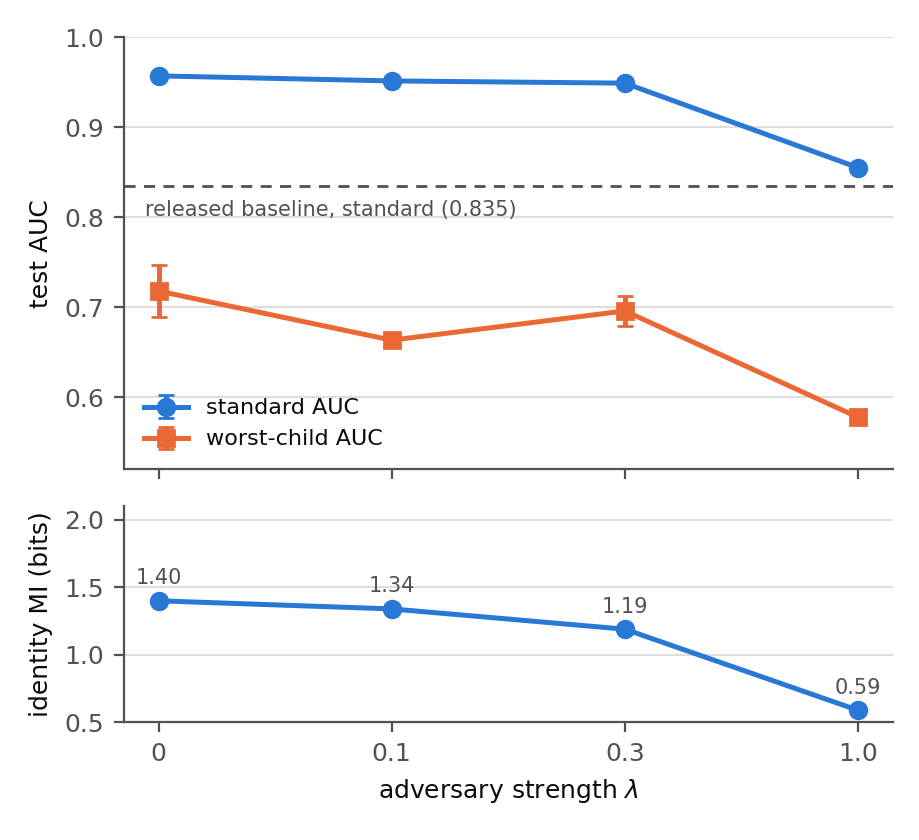
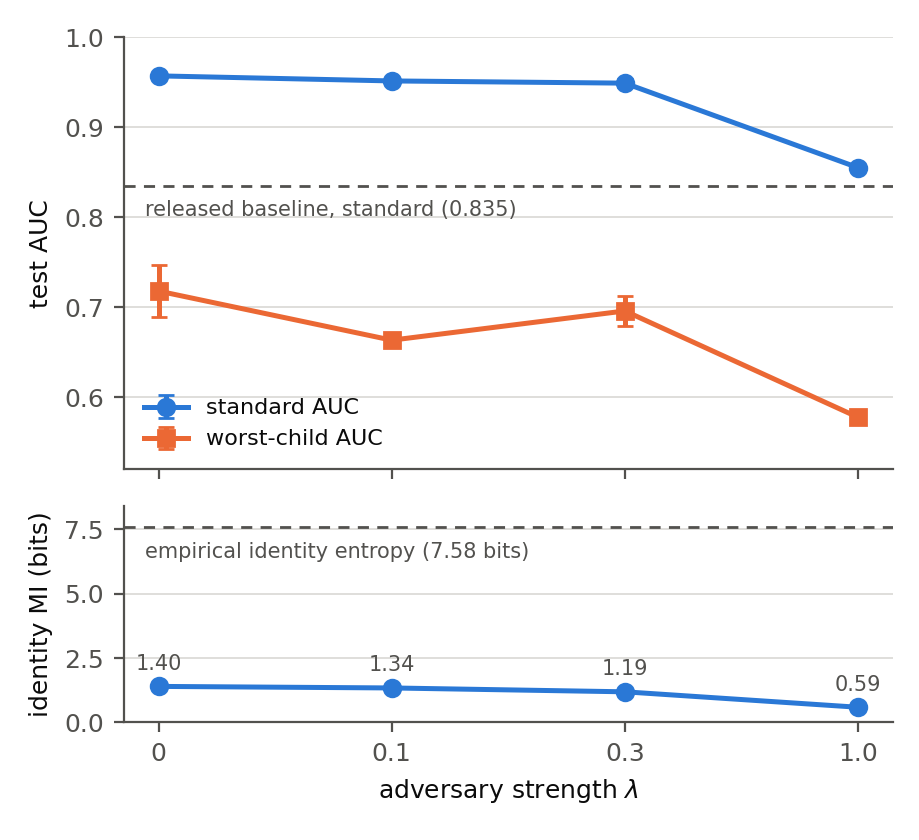
Rename QC protocol in generated tables, flip delta sign, add MI ceiling line
Review-driven presentation changes only: column headers say QC AUC,
delta is standard minus QC so larger means more reliance, the ablation
family row is labeled both (v2), and the tradeoff figure marks the
7.58-bit empirical identity entropy. All numeric values unchanged.

Changed region(s): [[0.0609, 0.619, 0.975, 0.8667], [0.0914, 0.8357, 0.1219, 0.8667]]

diff --git a/results/make_paper_tables.py b/results/make_paper_tables.py
@@ -69,7 +69,7 @@ qlr_scores = clf.predict_proba(scaler.transform(X))[:, 1]
 
 lines = [
     r"\begin{tabular}{lrccc}", r"\toprule",
-    r"model & params & standard AUC & hard-negative AUC & $\Delta$ \\",
+    r"model & params & standard AUC & QC AUC & $\Delta$ \\",
     r"\midrule",
 ]
 for name, path, params in MODELS:
@@ -81,12 +81,12 @@ for name, path, params in MODELS:
             hns.append(res["hard_negative"]["auc"])
         lines.append(f"{name} & {params} & {f(np.mean(sts))} $\\pm$ {f(np.std(sts))} & "
                      f"{f(np.mean(hns))} $\\pm$ {f(np.std(hns))} & "
-                     f"{f(np.mean(hns) - np.mean(sts))} \\\\")
+                     f"{f(np.mean(sts) - np.mean(hns))} \\\\")
         continue
     s = qlr_scores if path is None else scores_of(path)[1]
     res = evaluate(s, rows)
     st, hn = res["standard"]["auc"], res["hard_negative"]["auc"]
-    lines.append(f"{name} & {params} & {f(st)} & {f(hn)} & {f(hn - st)} \\\\")
+    lines.append(f"{name} & {params} & {f(st)} & {f(hn)} & {f(st - hn)} \\\\")
 lines += [r"\bottomrule", r"\end{tabular}"]
 open(f"{OUT}/table_main.tex", "w").write("\n".join(lines) + "\n")
 
@@ -99,7 +99,7 @@ ABL = [
     ("both (v2)", "results/segment_scores/stage1_detector_v2_test_scores.csv"),
 ]
 lines = [r"\begin{tabular}{lcc}", r"\toprule",
-         r"variant & standard AUC & hard-negative AUC \\", r"\midrule"]
+         r"variant & standard AUC & QC AUC \\", r"\midrule"]
 for name, path in ABL:
     res = evaluate(scores_of(path)[1], rows)
     lines.append(f"{name} & {f(res['standard']['auc'])} & {f(res['hard_negative']['auc'])} \\\\")
@@ -111,7 +111,7 @@ for p in ["results/segment_scores/stage1_detector_v2_test_scores.csv",
     v2_st.append(res["standard"]["auc"])
     v2_hn.append(res["hard_negative"]["auc"])
 lines.append(r"\midrule")
-lines.append(f"both, 3 seeds & {f(np.mean(v2_st))} $\\pm$ {f(np.std(v2_st))} "
+lines.append(f"both (v2), 3 seeds & {f(np.mean(v2_st))} $\\pm$ {f(np.std(v2_st))} "
              f"& {f(np.mean(v2_hn))} $\\pm$ {f(np.std(v2_hn))} \\\\")
 lines += [r"\bottomrule", r"\end{tabular}"]
 open(f"{OUT}/table_ablation.tex", "w").write("\n".join(lines) + "\n")
@@ -197,7 +197,7 @@ BREADTH = [
     ("CompactCTRGCN (ours)", "353K", "remedies", "results/segment_scores/stage2_sapl_lam0_seed0_test_scores.csv"),
 ]
 lines = [r"\begin{tabular}{llcccc}", r"\toprule",
-         r"architecture & params & arm & standard AUC & hard-negative AUC & $\Delta$ \\",
+         r"architecture & params & arm & standard AUC & QC AUC & $\Delta$ \\",
          r"\midrule"]
 prev = None
 for arch, par, arm, path in BREADTH:
@@ -208,7 +208,7 @@ for arch, par, arm, path in BREADTH:
     st, hn = res["standard"]["auc"], res["hard_negative"]["auc"]
     name = arch if arm == "base" else ""
     p = par if arm == "base" else ""
-    lines.append(f"{name} & {p} & {arm} & {f(st)} & {f(hn)} & {f(hn-st)} \\\\")
+    lines.append(f"{name} & {p} & {arm} & {f(st)} & {f(hn)} & {f(st-hn)} \\\\")
 lines += [r"\bottomrule", r"\end{tabular}"]
 open(f"{OUT}/table_breadth.tex", "w").write("\n".join(lines) + "\n")
 print("wrote table_breadth.tex")

diff --git a/results/tables/table_breadth.tex b/results/tables/table_breadth.tex
@@ -1,14 +1,14 @@
 \begin{tabular}{llcccc}
 \toprule
-architecture & params & arm & standard AUC & hard-negative AUC & $\Delta$ \\
+architecture & params & arm & standard AUC & QC AUC & $\Delta$ \\
 \midrule
-ST-GCN & 3.1M & base & 0.837 & 0.765 & -0.072 \\
- &  & remedies & 0.903 & 0.876 & -0.028 \\
+ST-GCN & 3.1M & base & 0.837 & 0.765 & 0.072 \\
+ &  & remedies & 0.903 & 0.876 & 0.028 \\
 \midrule
-AGCN & 3.4M & base & 0.754 & 0.601 & -0.153 \\
- &  & remedies & 0.790 & 0.687 & -0.103 \\
+AGCN & 3.4M & base & 0.754 & 0.601 & 0.153 \\
+ &  & remedies & 0.790 & 0.687 & 0.103 \\
 \midrule
-CompactCTRGCN (ours) & 353K & base & 0.865 & 0.792 & -0.073 \\
- &  & remedies & 0.958 & 0.946 & -0.012 \\
+CompactCTRGCN (ours) & 353K & base & 0.865 & 0.792 & 0.073 \\
+ &  & remedies & 0.958 & 0.946 & 0.012 \\
 \bottomrule
 \end{tabular}

diff --git a/results/make_paper_figures.py b/results/make_paper_figures.py
@@ -106,12 +106,16 @@ ax1.legend(frameon=False, loc="lower left", fontsize=8)
 ax2.grid(axis="y", color=GRID, linewidth=0.6)
 ax2.set_axisbelow(True)
 mi = [MI_BITS[l] for l in lams]
+ax2.axhline(7.58, color=MUTED, linewidth=1.0, linestyle=(0, (4, 3)))
+ax2.annotate("empirical identity entropy (7.58 bits)", (-0.06, 7.58),
+             textcoords="offset points", xytext=(0, -11), fontsize=7.5,
+             color=MUTED)
 ax2.plot(x, mi, color=BLUE, linewidth=1.8, marker="o", markersize=6)
 for xi, yi in zip(x, mi):
     ax2.annotate(f"{yi:.2f}", (xi, yi), textcoords="offset points",
                  xytext=(0, 6), ha="center", fontsize=7.5, color=MUTED)
 ax2.set_ylabel("identity MI (bits)")
-ax2.set_ylim(0.5, 2.1)
+ax2.set_ylim(0, 8.4)
 ax2.set_xlabel(r"adversary strength $\lambda$")
 ax2.set_xticks(x, lams)
 

diff --git a/results/tables/table_main.tex b/results/tables/table_main.tex
@@ -1,10 +1,10 @@
 \begin{tabular}{lrccc}
 \toprule
-model & params & standard AUC & hard-negative AUC & $\Delta$ \\
+model & params & standard AUC & QC AUC & $\Delta$ \\
 \midrule
-quality-only logistic regression & 5 & 0.714 & 0.502 & -0.211 \\
-released PoseConv3D checkpoint & 3.0M & 0.835 & 0.797 & -0.038 \\
-ours, coordinates only (v1) & 353K & 0.843 & 0.759 & -0.084 \\
-ours, full recipe (v3, 3 seeds) & 353K & 0.957 $\pm$ 0.003 & 0.944 $\pm$ 0.004 & -0.012 \\
+quality-only logistic regression & 5 & 0.714 & 0.502 & 0.211 \\
+released PoseConv3D checkpoint & 3.0M & 0.835 & 0.797 & 0.038 \\
+ours, coordinates only (v1) & 353K & 0.843 & 0.759 & 0.084 \\
+ours, full recipe (v3, 3 seeds) & 353K & 0.957 $\pm$ 0.003 & 0.944 $\pm$ 0.004 & 0.012 \\
 \bottomrule
 \end{tabular}

diff --git a/results/tables/table_ablation.tex b/results/tables/table_ablation.tex
@@ -1,12 +1,12 @@
 \begin{tabular}{lcc}
 \toprule
-variant & standard AUC & hard-negative AUC \\
+variant & standard AUC & QC AUC \\
 \midrule
 neither (v1) & 0.843 & 0.759 \\
 velocity only & 0.931 & 0.918 \\
 joint dropout only & 0.938 & 0.926 \\
 both (v2) & 0.940 & 0.927 \\
 \midrule
-both, 3 seeds & 0.944 $\pm$ 0.003 & 0.929 $\pm$ 0.004 \\
+both (v2), 3 seeds & 0.944 $\pm$ 0.003 & 0.929 $\pm$ 0.004 \\
 \bottomrule
 \end{tabular}
